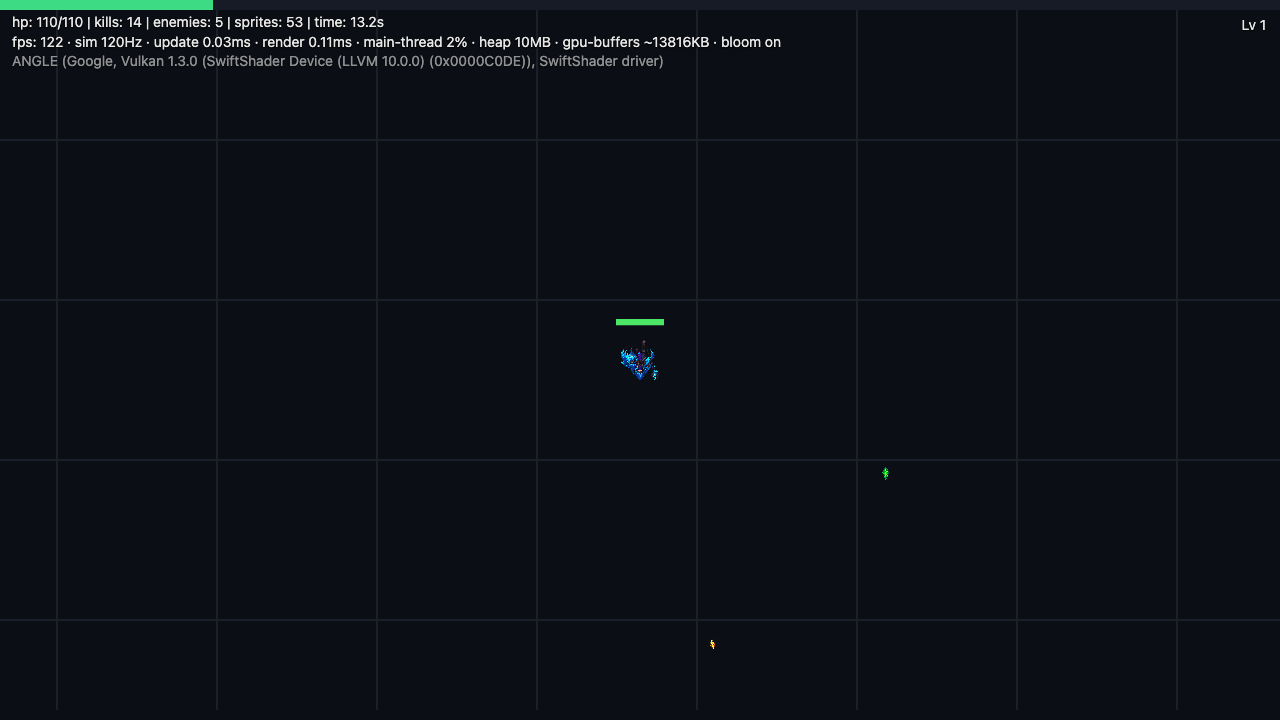
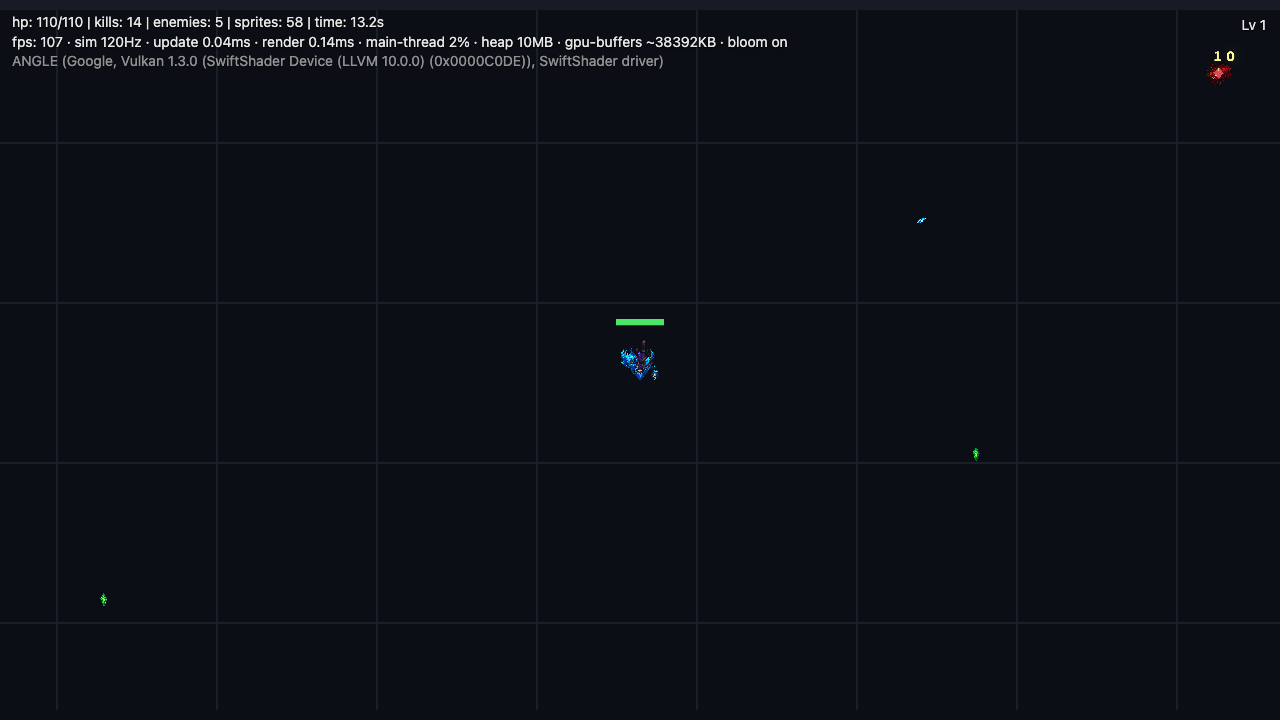
Round 3 sprites: 16 walk frames + 6 projectile arts; grow atlas to 4096x2048 (44 tiles)

Changed region(s): [[0.25, 0.0306, 0.625, 0.0917], [0.0, 0.0, 0.1875, 0.0611], [0.9375, 0.0611, 0.9688, 0.1222]]

diff --git a/src/engine/renderer.ts b/src/engine/renderer.ts
@@ -14,8 +14,8 @@ export interface SpriteInstance {
   rot?: number;
 }
 
-const ATLAS_W = 2048;
-const ATLAS_H = 1024;
+const ATLAS_W = 4096;
+const ATLAS_H = 2048;
 const TILE = 256;
 
 function rect(x: number, y: number, w: number, h: number): UVRect {
